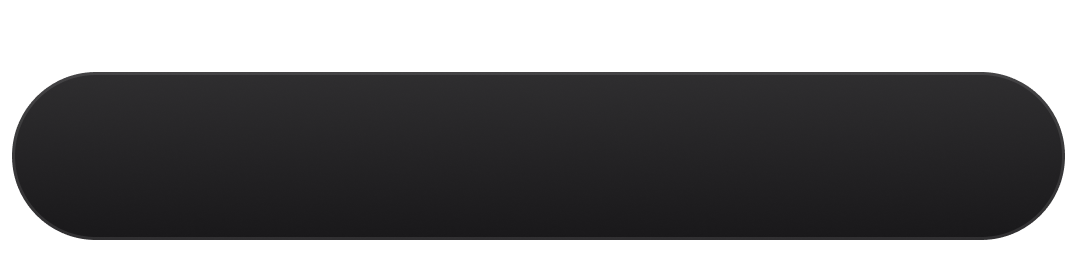
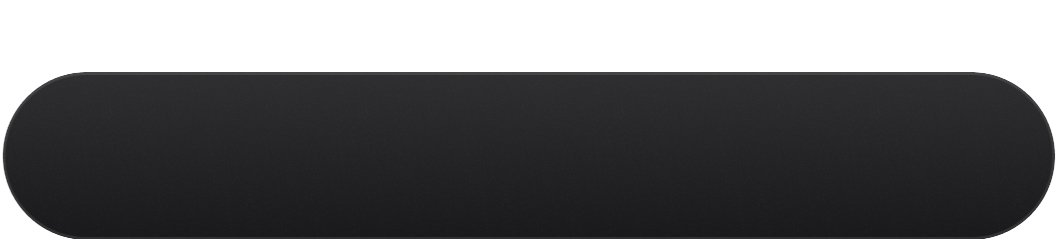
update: bottom nav ui

Changed region(s): [[0.0, 0.3808, 0.9981, 1.0], [0.0312, 0.2636, 0.9669, 0.3515]]

diff --git a/bgd-static-v1/src/css/app.scss b/bgd-static-v1/src/css/app.scss
@@ -275,14 +275,14 @@ body.body--dark .q-footer {
 
   .q-tabs__content {
     background-image: url(../assets/images/index/menu/menu-frame.png);
-    padding: 20px 1% 0;
+    padding: 4% 1% 0;
     background-repeat: no-repeat;
     background-size: 100% 100%;
     background-position: bottom center;
-    aspect-ratio: 1077 / 255;
+    aspect-ratio: 5;
     // padding-bottom: 10px;
     // padding-top: 16px;
-    height: 100px;
+    min-height: 95px;
   }
 }
 .q-footer .q-tab {
@@ -298,7 +298,7 @@ body.body--dark .q-footer {
     opacity: 1;
     z-index: 9;
     position: relative;
-    margin-top: -20px;
+    margin-top: -28px;
     padding-bottom: 10px;
     overflow: hidden;
 

diff --git a/bgd-static-v1/src/layouts/FooterSection.vue b/bgd-static-v1/src/layouts/FooterSection.vue
@@ -84,6 +84,7 @@ const tab = ref("home");
     }
 
     :deep(.q-tab__content) {
+      margin-top: 10px;
       align-content: center;
     }
   }
